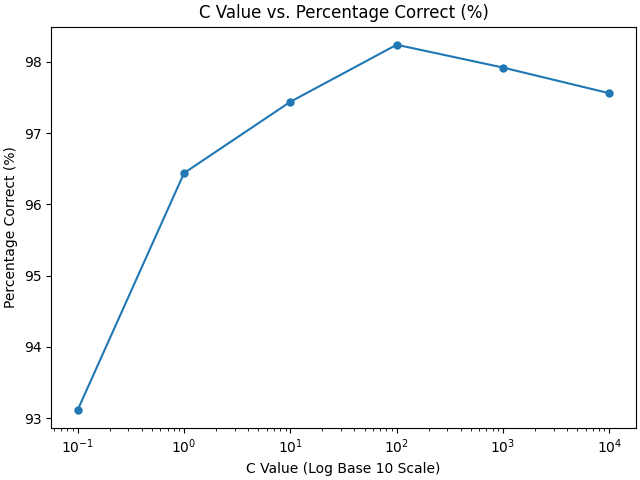
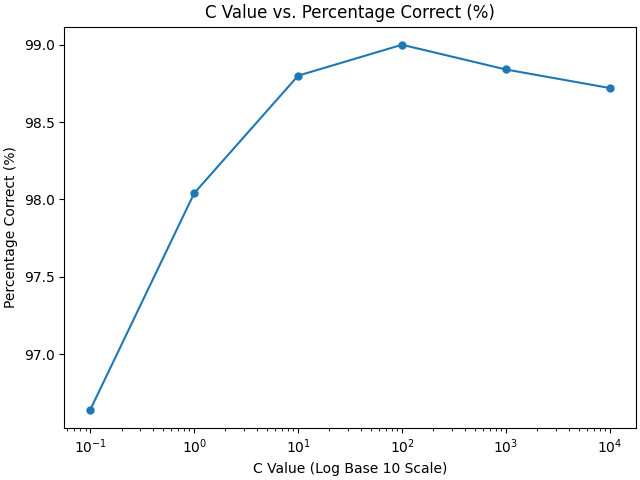
updated datapreprocessing so that we use the NIR mean and standard deviations as features, which boosts the model accuracies

diff --git a/src/DataPreprocessing.py b/src/DataPreprocessing.py
@@ -26,7 +26,7 @@ def ARVI(red, blue, nir) :
 """
 
 #Feature vector appending method
-def append_features(preprocessed, image_hsv) :
+def append_features(preprocessed, image_hsv, image_rgbn) :
      """ unused testing features:
      previous image_rgbn was passed in as a parameter,
      where image_rgbn[:, :, 0] = red layer, 
@@ -55,15 +55,20 @@ def append_features(preprocessed, image_hsv) :
      sat_std = np.std(image_hsv[:, :, 1])
      val_std = np.std(image_hsv[:, :, 2])
 
+     nir_mean = np.mean(image_rgbn[:, :, 3])
+     nir_std = np.std(image_rgbn[:, :, 3])
+
      #append an array containing each testing feature 
      #to the preprocessed dataset
      preprocessed.append([
          hue_mean,
          sat_mean,
          val_mean,
+         nir_mean,
          hue_std,
          sat_std,
-         val_std
+         val_std,
+         nir_std
      ])
 
 print("\n----\nDataPreprocessing.py successfully compiled & run.\n-------\n")
@@ -89,7 +94,7 @@ for i in range(TRAIN_SIZE) :
     #create copies of current image in hsv format to access hue and sat
     train_image_hsv = cv2.cvtColor(train_x[i, :, :, 0:3], cv2.COLOR_RGB2HSV)
 
-    append_features(train_x_preprocessed, train_image_hsv)
+    append_features(train_x_preprocessed, train_image_hsv, train_x[i])
 
     #print to keep track of progress
     if( i % 1000 == 0 ) : print("      * Preprocessed and stored point #" + str(i))
@@ -105,7 +110,7 @@ for i in range(TEST_SIZE) :
     #create copies of current image in hsv format to access hue and sat
     test_image_hsv = cv2.cvtColor(test_x[i, :, :, 0:3], cv2.COLOR_RGB2HSV)
 
-    append_features(test_x_preprocessed, test_image_hsv)
+    append_features(test_x_preprocessed, test_image_hsv, test_x[i])
 
     #print to keep track of progress
     if( i % 1000 == 0 ) : print("      * Preprocessed and stored point #" + str(i))

diff --git a/src/ModelTraining.py b/src/ModelTraining.py
@@ -46,6 +46,8 @@ def MLP():
     #Define the length of feature vectors
     num_features = len(train_x[0])
 
+    print(num_features)
+
     #Declare the model; num_features nueron input -> 50 neuron hidden layer 
     #                   -> 100 neuron hidden layer -> 4 neuron output layer
     model = nn.Sequential(
@@ -105,7 +107,7 @@ def MLP():
     print(" -- MLP Model dumped with joblib\n")
 
 #Run the MLP model
-# MLP()
+MLP()
 
 def SVM(c_value):
     print(' -- Running SVM model\n')
@@ -135,8 +137,6 @@ def SVM(c_value):
     #Create SVM model
     model = SVC(decision_function_shape="ovo", kernel="rbf", C=c_value)
 
-    # print(model.get_params())
-
     print(' -- Training model\n')
 
     #Train model
@@ -158,7 +158,7 @@ def SVM(c_value):
         + str(TEST_SIZE) + ' test cases.\n' )
     
     #Only dump on the most accurate c value
-    if(c_value == 230):
+    if(c_value == 290):
         joblib.dump(model, 'model/trainedSVM')
         print(" -- SVM Model dumped with joblib\n")
 
